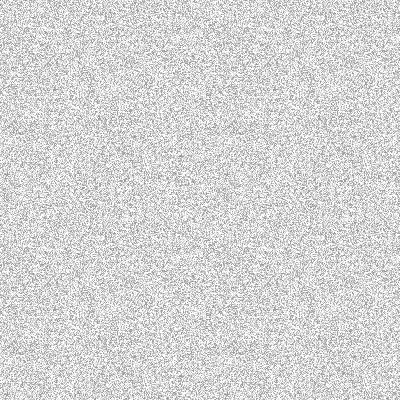
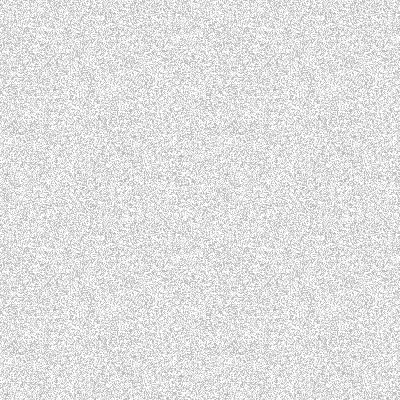
New version for copies

diff --git a/index.html b/index.html
@@ -21,6 +21,15 @@
     <script src="/node_modules/owl.carousel/dist/owl.carousel.min.js"></script>
     <script src="js/scripts.js"></script>
     <link rel="stylesheet" href="/node_modules/owl.carousel/dist/assets/owl.carousel.min.css" />
+    <script src="//embed.typeform.com/next/embed.js"></script>
+    <!-- Global site tag (gtag.js) - Google Analytics -->
+    <script async src="https://www.googletagmanager.com/gtag/js?id=G-9VZWG9FGKH"></script>
+    <script>
+      window.dataLayer = window.dataLayer || [];
+      function gtag(){dataLayer.push(arguments);}
+      gtag('js', new Date());
+      gtag('config', 'G-9VZWG9FGKH');
+    </script>
   </head>
 
   <body>
@@ -79,8 +88,8 @@
         <img class="a-candy-icon a-candy-icon--top-xl a-candy-icon--left-m" src="images/ic-emoji-sweet.png">
         <h3 class="o-who-we-are--title -c-nuclear">So you need to hire a digital studio…</h3>
         <div class="o-who-we-are--description">
-          <p class="-c-nuclear">We know there are two things you don’t want to waste: <b class="-c-acid">time, and money</b>.
-            That's why we created codeCandy, because we know it is crucial to validate whether your idea or product connects with your users before wasting time and money.  We build fast serving
+          <p class="-c-nuclear">We know there are two things you want to save: <b class="-c-acid">time, and money</b>.
+            If you know it is crucial to validate whether your idea or product connects with your users, we can help developing fast serving
             prototypes and minimum viable products that are great for testing your business model while minimizing upfront costs.
           </p>
           <p class="-c-nuclear">Our talent at the service of your users to match their current needs with your long-term vision.</p>
@@ -107,18 +116,15 @@
           <p class="a-label -uppercase -c-acid">In a few words, we can:</p>
           <img class="a-candy-icon a-candy-icon--top-xs a-candy-icon--left-xs" src="images/ic-emoji-chocolate.png">
           <div class="o-skills__wrapper">
-            <ol class="o-skills__list -uppercase">
-              <li class="o-skills__list--item -fade-in">Design tailored products</li>
-              <li class="o-skills__list--item -fade-in">Develop minimum viable products (MVP) and proof of concepts (POC)
+            <ol class="o-skills__list">
+              <li class="o-skills__list--item -fade-in">Design tailored product for you</li>
+              <li class="o-skills__list--item -fade-in">Deliver minimum viable products (MVP) and proof of concepts (POC)
+              <li class="o-skills__list--item -fade-in">Develop nice, scalable and solid software</li>
               <li class="o-skills__list--item -fade-in">Drive user research</li>
-              <li class="o-skills__list--item -fade-in">Reduce tech debt</li>
-              <li class="o-skills__list--item -fade-in">Validate and improve usability</li>
+              <li class="o-skills__list--item -fade-in">Integrations development</li>
+              <li class="o-skills__list--item -fade-in">Oprtimize CRO and marketing</li>
               <li class="o-skills__list--item -fade-in">Build a narrative & brand design</li>
-              <li class="o-skills__list--item -fade-in">Minimize tech costs</li>
-              <li class="o-skills__list--item -fade-in">Offer CPO as a service</li>
               <li class="o-skills__list--item -fade-in">Design a consistent user experience</li>
-              <li class="o-skills__list--item -fade-in">Optimize your infrastructure</li>
-              <li class="o-skills__list--item -fade-in">Design beautiful and human-centered interfaces</li>
               <!--<li class="o-skills__list--item -fade-in">Product design and development</li> 
               <li class="o-skills__list--item -fade-in">Minimum viable product (MVP) and proof of concept (POC) development
               <li class="o-skills__list--item -fade-in">Reduce tech debt</li>
@@ -134,7 +140,7 @@
             <img class="a-candy-icon a-candy-icon--top-l a-candy-icon--left-l" src="images/ic-emoji-candy.png">
             <img class="a-candy-icon a-candy-icon--top-m a-candy-icon--left-lm" src="images/ic-emoji-laptop.png">
             <img class="a-candy-icon a-candy-icon--top-xl a-candy-icon--left-s" src="images/ic-emoji-sweet.png">
-            <h3 class="o-skills__description -fade-in">Hire a studio that connects with your product's rythm and lifecycle to build meaningful and user-friendly experiences and strategies that
+            <h3 class="o-skills__description -fade-in">Hire a studio that connects with your product's rythm and lifecycle to build meaningful and human-centered experiences that
               will reach your users' heart. Just like candy does.</h3>
           </div>
         </div>
@@ -155,7 +161,7 @@
       </div> -->
 
       <div class="o-reel -fade-in js-why-anchor">
-        <p class="a-label -uppercase -c-acid">But…</p>
+        <p class="a-label -uppercase -c-acid">You may wondering…</p>
         <h3 class="o-reel--title o-reel--title-reset -uppercase -c-nuclear">Why would you trust us with your product?</h3>
         <div class="o-reel__showcase">
           <img class="a-candy-icon a-candy-icon--top-xs a-candy-icon--left-m" src="images/ic-emoji-cell.png">
@@ -168,35 +174,34 @@
               <path d="M124.334 310.077L122.87 307.458L124.334 310.077ZM113.287 253.584L114.459 256.345L113.287 253.584ZM372.364 402.99C373.996 403.279 375.084 404.835 374.795 406.467L370.087 433.053C369.799 434.685 368.242 435.773 366.61 435.484C364.979 435.195 363.89 433.639 364.179 432.007L368.364 408.375L344.732 404.19C343.1 403.901 342.012 402.345 342.301 400.713C342.589 399.082 344.146 397.993 345.778 398.282L372.364 402.99ZM88.4953 50.4124C57.7118 100.073 43.882 177.832 49.4809 236.618C52.2866 266.077 59.916 290.128 72.1282 303.559C78.1604 310.193 85.2509 314.179 93.4672 315.082C101.731 315.991 111.489 313.82 122.87 307.458L125.798 312.696C113.681 319.469 102.666 322.13 92.8114 321.046C82.9093 319.957 74.5361 315.126 67.6888 307.595C54.1421 292.696 46.3497 267.025 43.5079 237.187C37.8119 177.381 51.784 98.248 83.3956 47.2512L88.4953 50.4124ZM122.87 307.458C138.001 299.001 147.417 290.259 152.476 282.383C157.528 274.519 158.129 267.735 156.189 262.761C154.251 257.793 149.492 253.892 142.256 252.35C135.008 250.807 125.411 251.696 114.459 256.345L112.114 250.822C123.923 245.81 134.788 244.625 143.506 246.482C152.235 248.341 158.944 253.314 161.779 260.58C164.611 267.84 163.289 276.651 157.524 285.626C151.766 294.59 141.471 303.935 125.798 312.696L122.87 307.458ZM114.459 256.345C84.8167 268.928 71.6428 293.934 71.9778 322.26C72.3147 350.748 86.3672 382.627 111.483 408.065C136.557 433.461 172.534 452.303 216.5 454.851C260.458 457.399 312.646 443.669 370.122 403.485L373.56 408.403C315.197 449.206 261.701 463.481 216.153 460.841C170.614 458.202 133.264 438.666 107.214 412.281C81.2058 385.939 66.3366 352.636 65.9782 322.331C65.6178 291.864 79.975 264.465 112.114 250.822L114.459 256.345Z" fill="#52ED80"/>
             </svg>
           </div>
-          <div class="o-reel__showcase--description -fade-in">
-            <p class="-acided">
-              1. Because no one other than entrepreneurs can understand the passion that we put into our products.
-              Work with a studio formed by founders that wants to share, grow and shine hand in hand with you. It's what makes awesome products.
-              <br>
-              <br>
-              2. Because we spent ten years working on different tech startups and finally decided that it's time to build something together.
-              Helping companies develop apps using the insights we've learned, as well as guide them away from the common mistakes made when creating new products.
-            </p>
-          </div>
+          <p class="o-reel__showcase--description -fade-in">
+            1. Because no one other than entrepreneurs can understand the passion that we put developing products.
+            Work with a studio formed by founders that wants to share, grow hand in hand with you it's what will make your product shine.
+            <br>
+            <br>
+            2. Because we spent years working on tech startups and joined together
+            to develop apps using the insights we've learned, as well as guide entrepeneurs away from the common mistakes made when creating new products.
+          </p>
+          
         </div>
       </div>
 
       <div class="m-carousel -fade-in">
         <img class="a-candy-icon a-candy-icon--top-m a-candy-icon--left-l" src="images/ic-emoji-laptop.png">
         <img class="a-candy-icon a-candy-icon--top-l a-candy-icon--left-m" src="images/ic-emoji-sweet.png">
-        <p class="a-label -uppercase -c-nuclear">We truly believe that…</p>
+        <p class="a-label -uppercase -c-acid">We truly believe that…</p>
         <div class="owl-carousel owl-theme">
           <div class="m-carousel__item">
-            <h4 class="m-carousel__item--title -c-acid -uppercase">Small squads move faster</h4>
-            <p class="m-carousel__item--description">Validate quickly, focus on what matters most and keep costs under control. </p>
+            <h4 class="m-carousel__item--title -uppercase">Small squads move faster</h4>
+            <p class="m-carousel__item--description">Release early, release often. Validate soon, focus on what matters most and keep costs under control. </p>
           </div>
           <div class="m-carousel__item">
-            <h4 class="m-carousel__item--title -c-acid -uppercase">Products with purpose</h4>
-            <p class="m-carousel__item--description">We don't just design and code. We use code and design to reach business goals while creating a unique experience for your users.</p>
+            <h4 class="m-carousel__item--title -uppercase">Code with heart, design with the head</h4>
+            <p class="m-carousel__item--description">Work with a studio that don't just design and code. Instead, use code and design to reach business goals while creating a experience your users will love.</p>
           </div>
           <div class="m-carousel__item">
-            <h4 class="m-carousel__item--title -c-acid -uppercase">Monitorize 'em all</h4>
-            <p class="m-carousel__item--description">We use research and validating techniques to measure and assure your product has the desired impact on your users.</p>
+            <h4 class="m-carousel__item--title -uppercase">Monitorize 'em all</h4>
+            <p class="m-carousel__item--description">Take advantage of research and validating techniques to measure and assure your product impacts as you planned.</p>
           </div>
         </div>
       </div>
@@ -213,7 +218,7 @@
           <span class="-fade-in">often the </span><br>
           <span class="-fade-in">hardest</span><br>
         </h3>
-        <a href="#" class="o-call-to-action--link a-link -c-nuclear -uppercase">To make it easier, consider this quiz our first meeting →</a>
+        <a href="https://pn3l1r2nuhm.typeform.com/to/pnJwphsw" target="_blank" class="o-call-to-action--link a-link -c-nuclear -uppercase">To make it easier, consider this quiz our first meeting →</a>
       </div>
 
       <div class="o-greeting -fade-in -inverted">

diff --git a/css/molecules/m-carousel.css b/css/molecules/m-carousel.css
@@ -7,7 +7,7 @@
 }
 
 .m-carousel .owl-dots {
-  margin-top: 48px;
+  margin-top: 16px;
 }
 
 .m-carousel .owl-dot {
@@ -44,29 +44,56 @@
 
 /*CUSTOM CLASESS*/
 
+.owl-item {
+  opacity: 0.2;
+}
+
+.active {
+  opacity: 1;
+}
+
 .m-carousel {
   text-align: center;
   padding: 70px 16px;
 }
 
 .m-carousel__item {
-  width: 620px;
+  width: 100%;
   margin: 0 auto;
-  padding: 0 48px;
+  padding: 0;
   text-align: left;
   color: #fff;
+  line-height: 1.2;
+  text-align: center;
 }
 
 .m-carousel__item--title {
-  font-size: var(--fs-l-s);
+  margin-top: 16px;
+  font-size: var(--fs-m-l);
 }
 
 .m-carousel__item--description {
-  font-size: var(--fs-l-s);
+  font-size: var(--fs-m);
+  font-family: var(--font-thin);
 }
 
 @media screen and (min-width: 720px) {
   .m-carousel {
     padding: 220px 16px;
   }
+
+  .m-carousel__item {
+    width: 620px;
+    padding: 0 48px;
+    text-align: left;
+  }
+
+  .m-carousel__item--title {
+    font-size: var(--fs-l-s);
+  }
+
+  .m-carousel__item--description {
+    font-size: var(--fs-l-s);
+  }
 }
+

diff --git a/css/organisms/o-reel.css b/css/organisms/o-reel.css
@@ -33,10 +33,12 @@ Showcase  styles
   display: none;
 }
 
-.o-reel__showcase--description .-acided {
-  padding: 32px;
+.o-reel__showcase--description {
+  padding: 32px 0;
   font-size: var(--fs-m);
+  font-family: var(--font-thin);
   line-height: 1.33;
+  color: var(--nuclear);
 }
 
 .o-reel--pill {
@@ -98,6 +100,13 @@ Showcase  styles
     display: block;
   }
 }
+
+@media screen and (min-width: 720px) {
+  .o-reel__showcase--description {
+    padding: 32px;
+  }
+}
+
 
 @media screen and (min-width: 1063px) {
   .o-reel {

diff --git a/css/base.css b/css/base.css
@@ -20,7 +20,7 @@ body {
   text-align: center;
   background-image: url("../images/bg-pttrn.png");
   background-repeat: repeat;
-  animation: noiseGEn 82ms infinite;
+  background-attachment: fixed;
 }
 
 body::-webkit-scrollbar {
@@ -46,7 +46,7 @@ h1 {
 
 /*FONT SIZEZ*/
 .-fs-xxl {
-  font-size: 4rem
+  font-size: 3.4rem
 }
 
 /*COLORS*/

diff --git a/css/organisms/o-footer.css b/css/organisms/o-footer.css
@@ -64,7 +64,7 @@
   border-radius: 5px;
   background-color: rgba(0,0,0,0.2);
   border: none;
-  font-size: var(--fs-m-l);
+  font-size: 28px;
   color: var(--nuclear);
   fill: #fff;
 }

diff --git a/js/scripts.js b/js/scripts.js
@@ -278,7 +278,6 @@ function initOwl() {
   $('.owl-carousel').owlCarousel({
     loop: true,
     dots: true,
-    center: true,
     items: 1,
     dotsEach: 1,
     autoHeight: true
